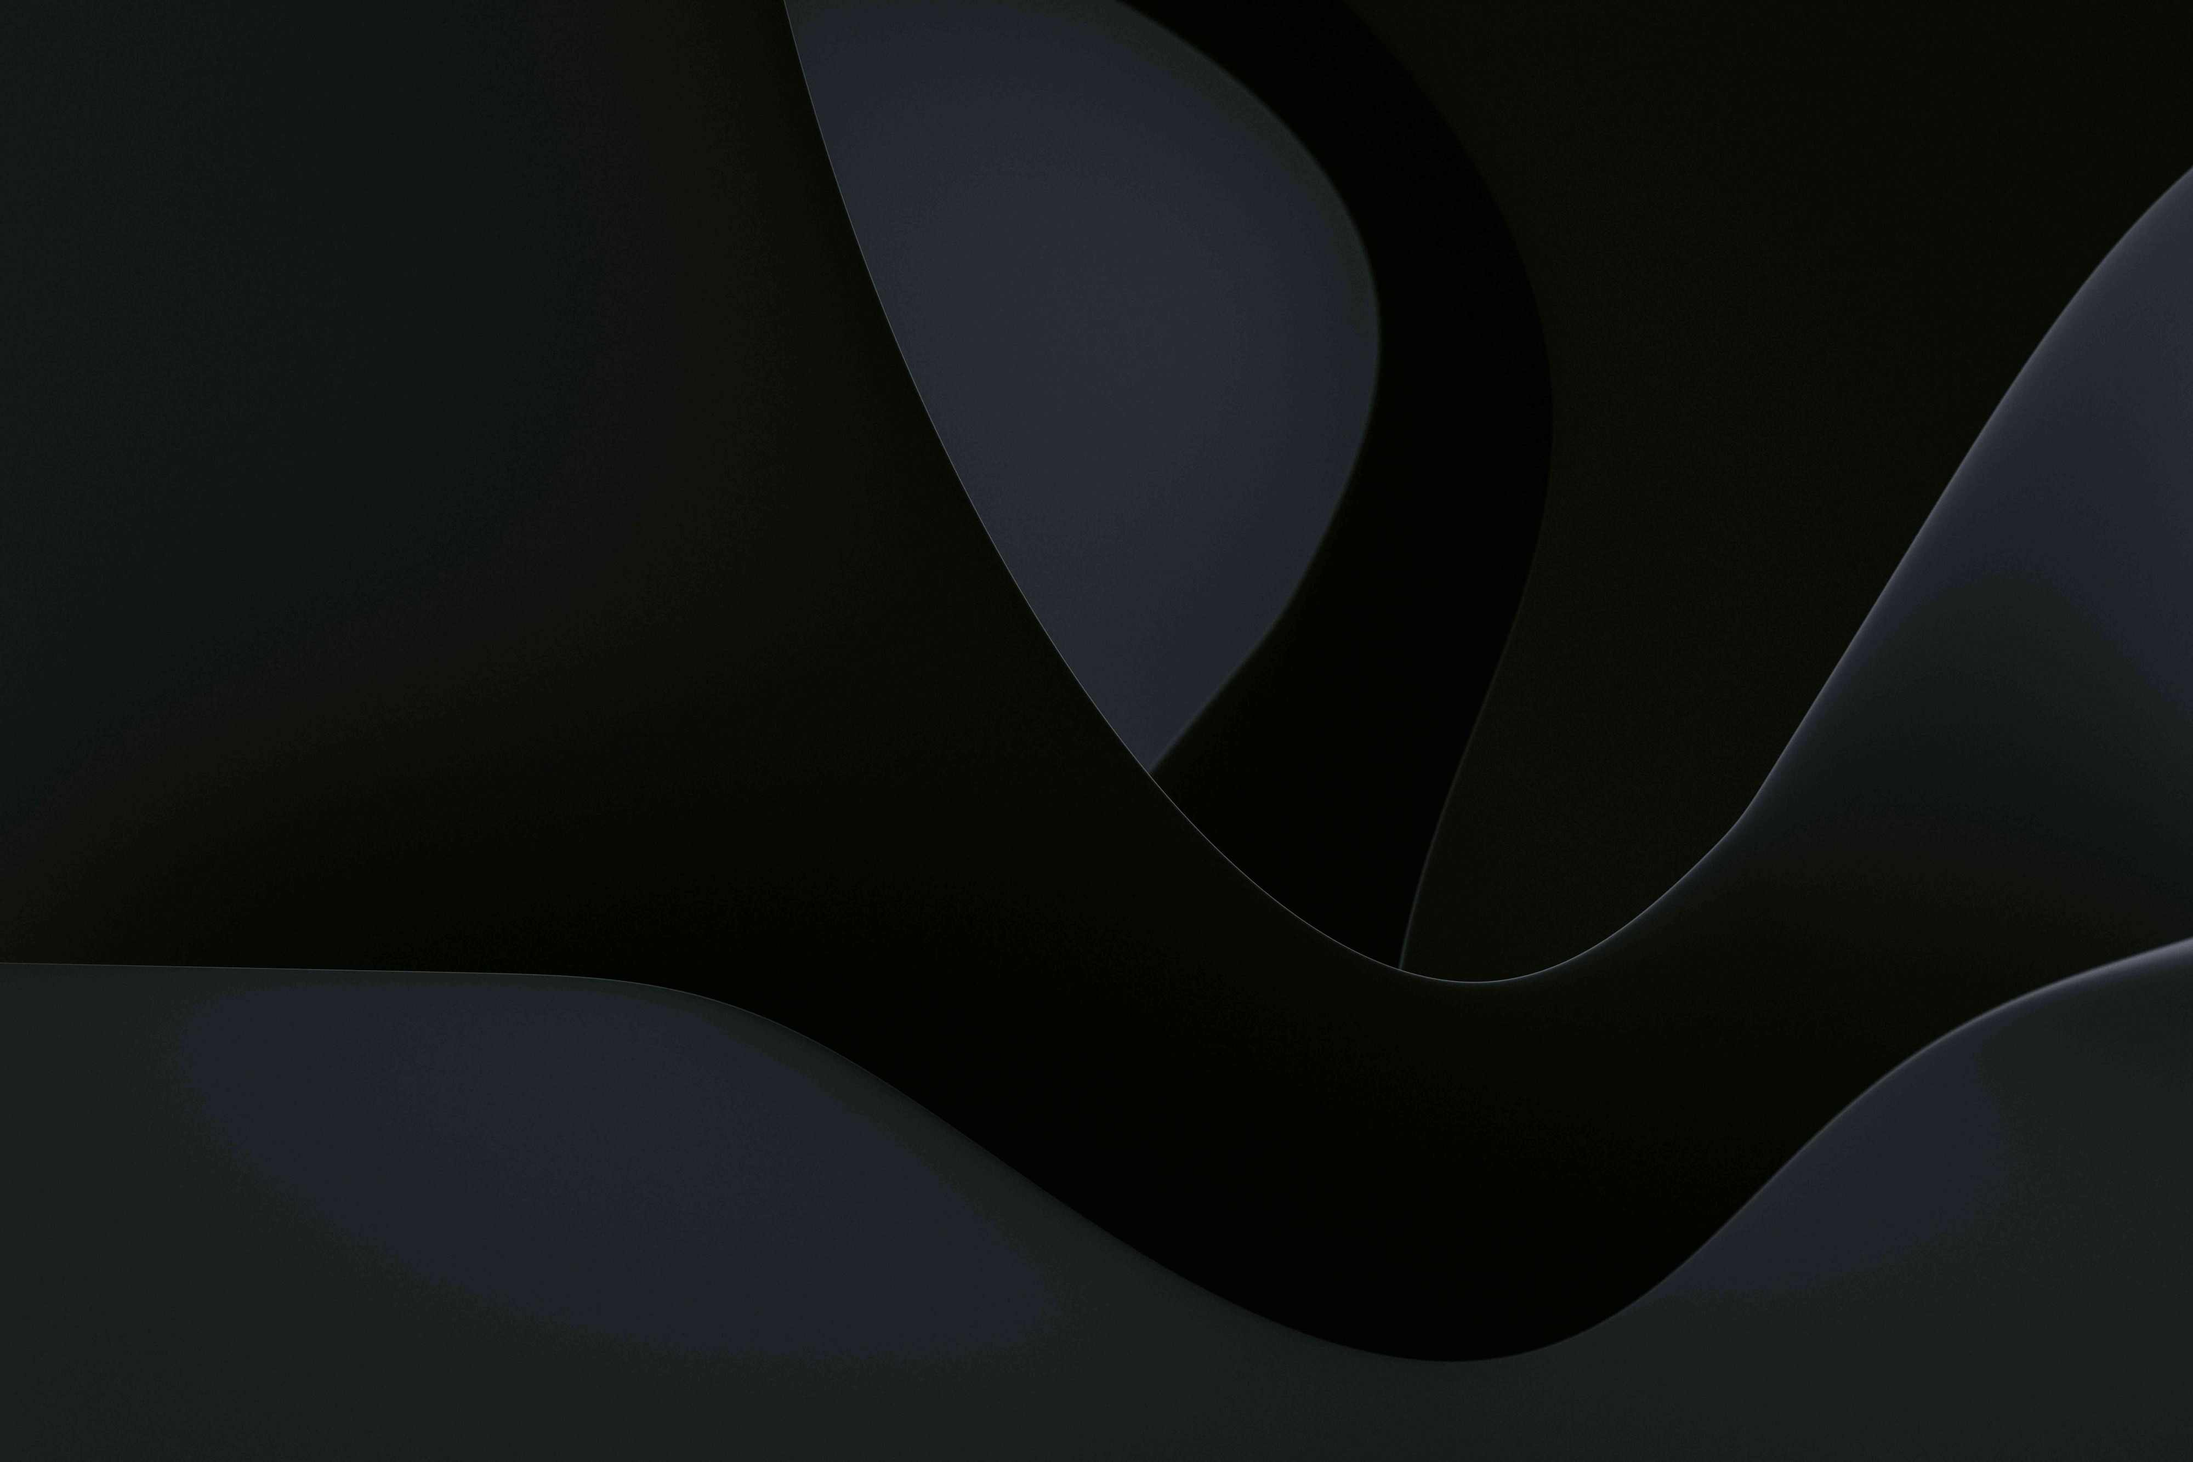
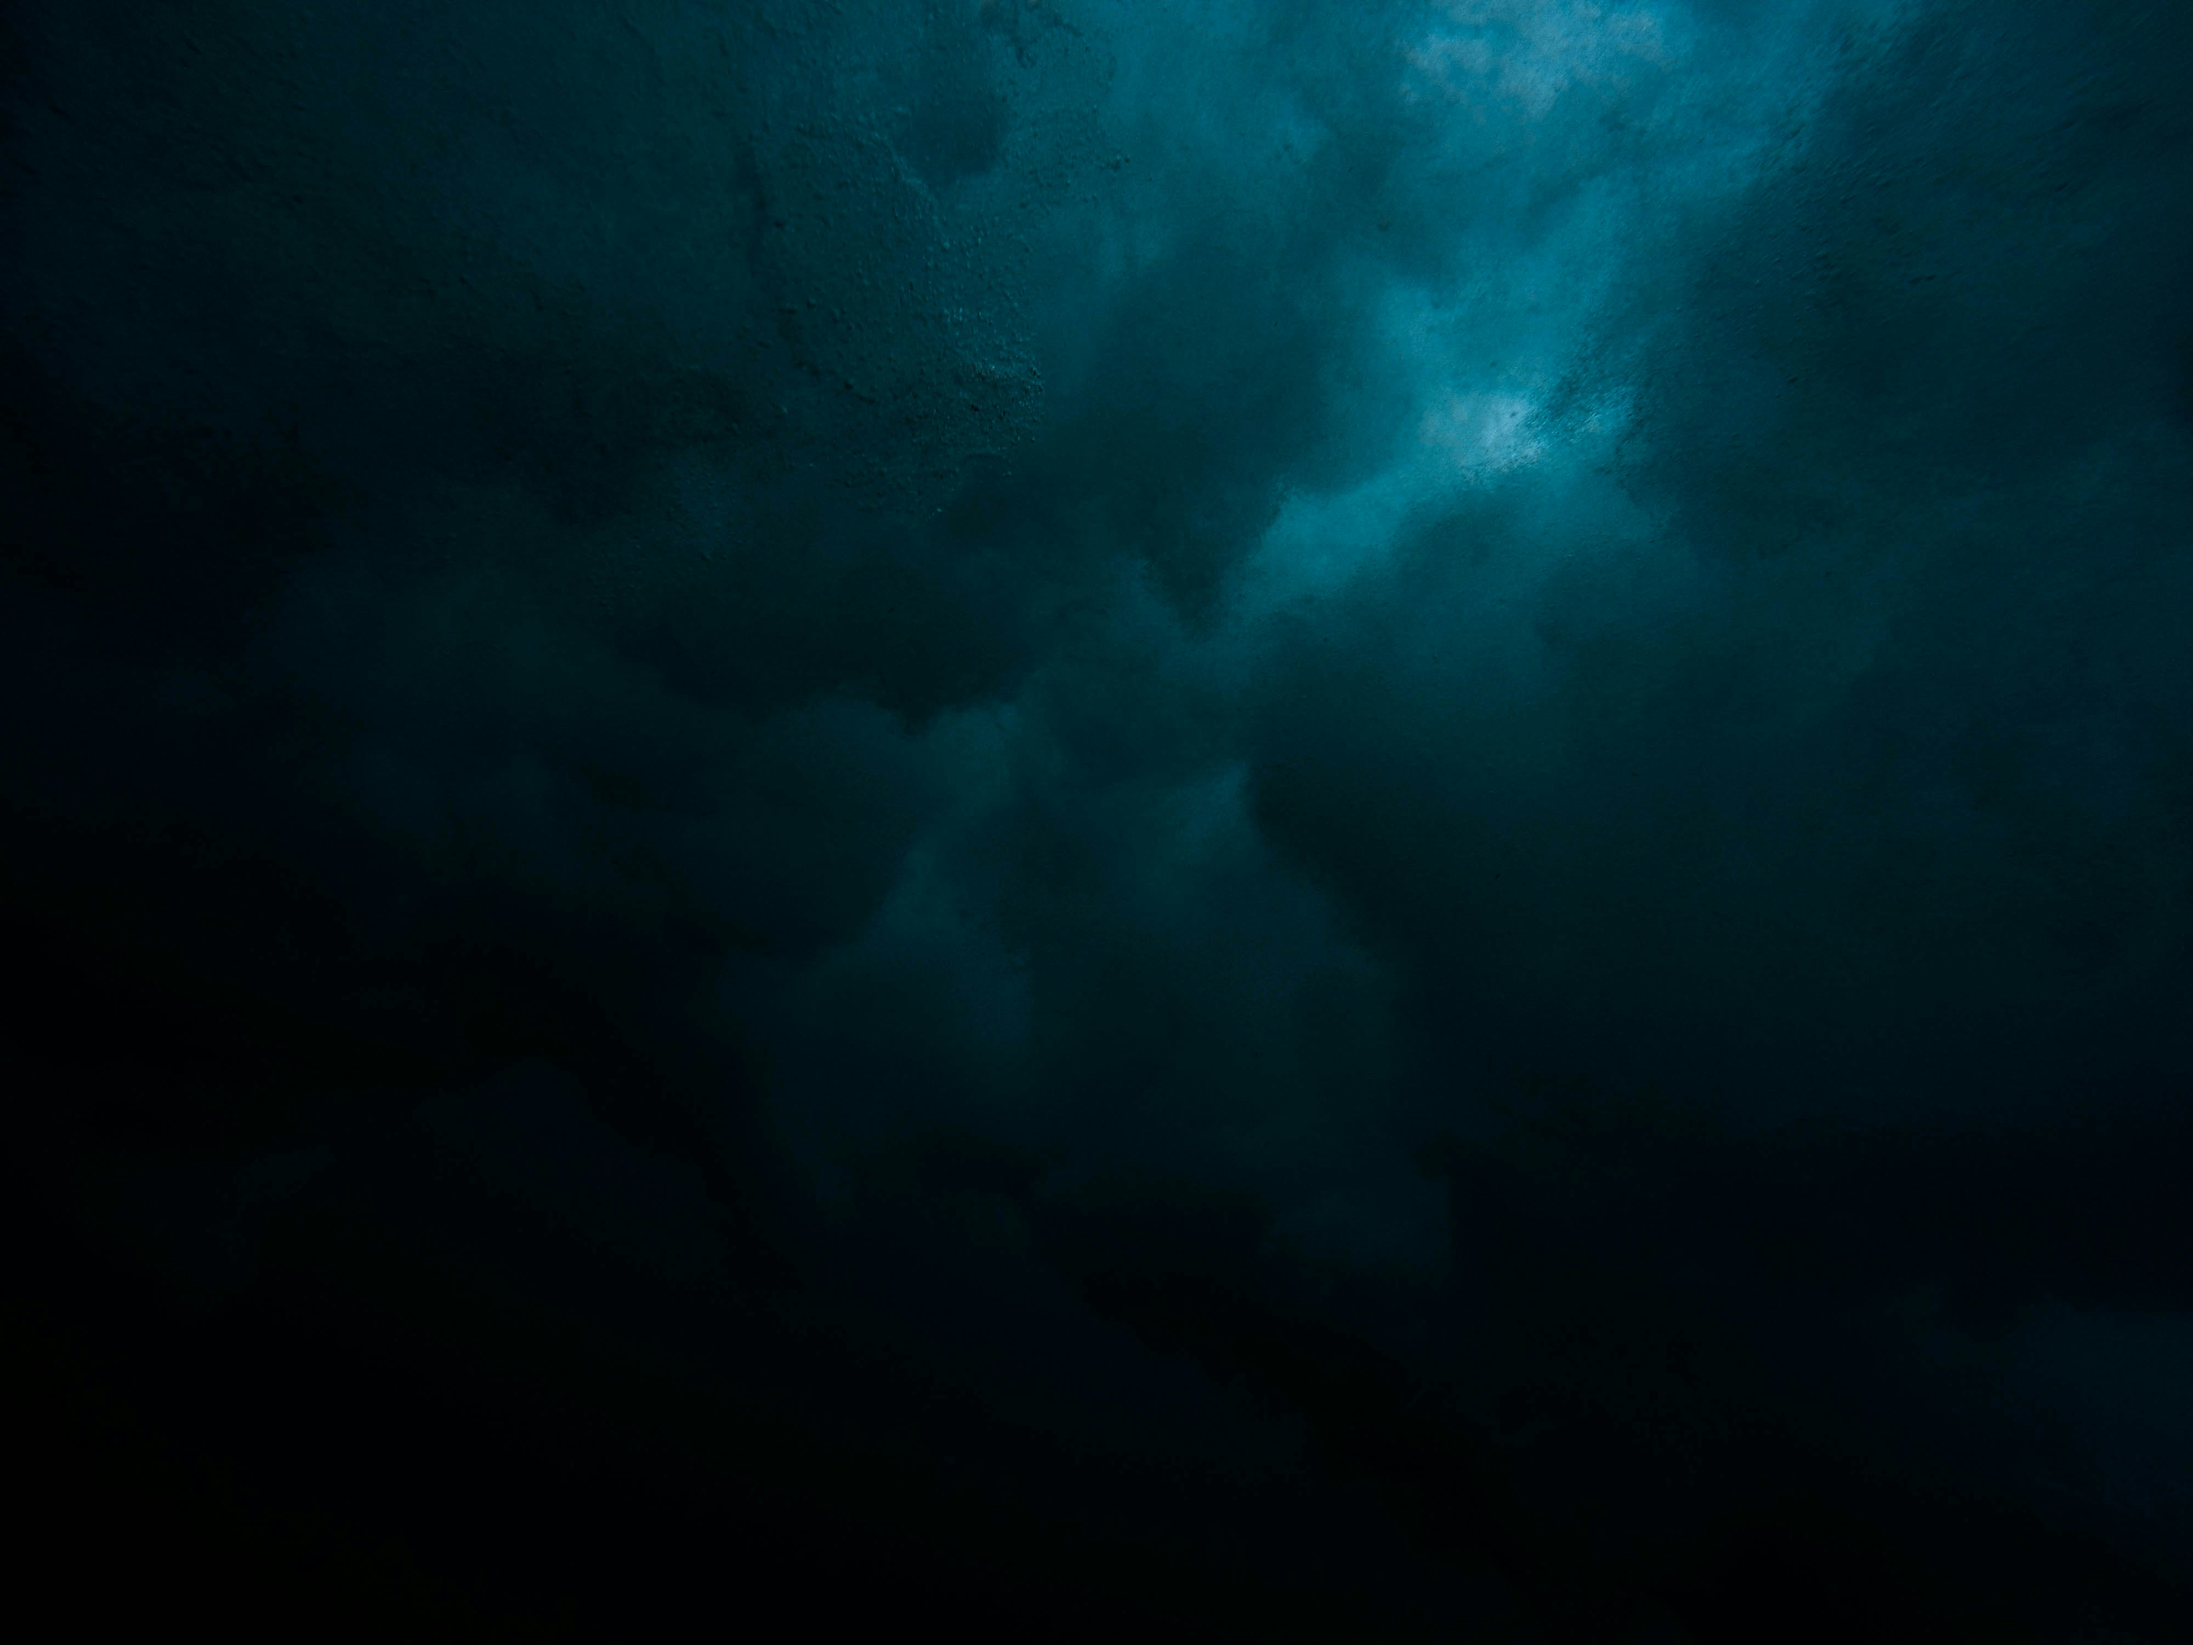
Overhauled element style

diff --git a/src/styles/about.css b/src/styles/about.css
@@ -1,0 +1,130 @@
+@property --start {
+  syntax: '<color>';
+  inherits: false;
+  initial-value: transparent;
+}
+
+@property --pos {
+  syntax: '<percentage>';
+  inherits: false;
+  initial-value: 10%;
+}
+
+
+.about-head {
+    position: relative;
+}
+
+
+.about-border {
+    width: 100%;
+    height: 40px;
+    border-top-left-radius: 8px;
+    border-top-right-radius: 8px;
+    background-color: #9c635897;
+}
+
+
+.about-container{
+  display: grid;
+  justify-content: center;
+  align-items: center;
+  gap: 70px;
+  background: linear-gradient(36deg, #1f1f2343 80%, #c77d7042 20%),
+  linear-gradient(to left, #201e2d3a 0%, #ea535838 100%);
+  backdrop-filter: blur(30px);
+  border-bottom-left-radius: 8px;
+  border-bottom-right-radius: 8px;
+  grid-template-columns: 2fr 1fr; /* ratio 2:1 */
+  transition: transform 0.3s ease;
+  margin-bottom: 5%;
+  box-shadow: 0 4px 8px rgba(0, 0, 0, 0.1);
+}
+
+
+
+/* Cutoff point when the about head turns into a collumn*/
+@media (max-width: 1100px) {
+  .about-container {
+    grid-template-columns: 1fr;
+    gap: 0px;
+  }
+  .right-section {
+    width: 0%;
+    height: 0%;
+    padding: 0%;
+    display: none;
+  }
+  
+  .right-section div {
+    display: none;
+  }
+}
+
+
+.right-section {
+    width: 100%;
+    height: 100%;
+    padding-top: 10%;
+    padding-bottom: 10%;
+    display: flex;
+    align-items: center;
+}
+
+.right-section div {
+    background-color: #28282d;
+    background-size: cover;
+    background-position-x: -150px;
+    box-shadow: 0 4px 8px rgba(0, 0, 0, 0.1);
+    border-radius: 8px;
+    width: 70%;
+    height: 70%;
+    max-height: 800px;
+    overflow: hidden;
+}
+
+.contact-list{
+  list-style: none;
+  display: flex;
+  justify-content: left;
+  align-items: left;
+  padding: 0;
+  height: 64px;
+}
+
+.contact-list a{
+  display: flex;
+  justify-content: center;
+  align-items: center;
+  width: 64px;
+  height: 64px;
+  margin-right: 10px;
+}
+.contact-list a img{
+  transition: transform 0.2s;
+  width: auto;
+  height: 100%;
+}
+
+.contact-list a img:hover{
+  transform: scale(1.2);
+  transition: transform 0.2s;
+  cursor: pointer;
+}
+
+.left-section {
+    background: transparent;
+    transition: --start 0.3s ease, --pos 0.3s ease;
+    border-bottom-left-radius: 8px;
+    --start: transparent;
+    --pos: 0%;
+    background: linear-gradient(90deg, var(--start) var(--pos), transparent 20%);
+    padding: 30px 30px 30px 30px;
+}
+
+.left-section:hover {
+    --start: #c77d7017;
+    --pos: 30%;
+}
+
+

diff --git a/src/index.css b/src/index.css
@@ -1,19 +1,18 @@
 @import './styles/font.css';
 @import './styles/navbar.css';
 @import './styles/bloglist.css';
+@import './styles/about.css';
 
-body {
-  margin: 0;
-}
 
 code {
   font-family: 'Monaspace Argon', monospace;
 }
 
 body{
-  background-color: #1f1f23;
+  margin: 0;
+  background: linear-gradient(216deg, #1f1f23 10%, #1f1f23 50%);
   background-size: cover;
-  color: #d4d3c3;
+  color: #f3f3f3;
   display: flex;
   justify-content: center;
 }
@@ -57,89 +56,8 @@ p{
   text-decoration: underline;
 }
 
-
-.about-container{
-  display: grid;
-  justify-content: center;
-  align-items: center;
-  gap: 70px;
-  padding: 0px 40px 40px 40px;
-  background-color: #252529;
-  border-radius: 32px;
-  grid-template-columns: 2fr 1fr; /* ratio 2:1 */
-  transition: transform 0.3s ease;
-  margin-bottom: 5%;
-}
-/* Cutoff point when the about head turns into a collumn*/
-@media (max-width: 1100px) {
-  .about-container {
-    grid-template-columns: 1fr;
-  }
-  .about-container img {
-    display: none;
-  }
-}
-.about-container img{
-  min-width: 300px;
-  justify-self: center;
-  max-width: 100%;
-  height: auto;
-  transition: transform 0.3s ease;
-}
-
-.about-container img:hover{
-  transform: scale(1.05);
-  transition: transform 0.3s ease;
-}
-
-.contact-list{
-  list-style: none;
-  display: flex;
-  justify-content: left;
-  align-items: left;
-  padding: 0;
-  height: 64px;
-}
-
-.contact-list a{
-  display: flex;
-  justify-content: center;
-  align-items: center;
-  width: 64px;
-  height: 64px;
-  margin-right: 10px;
-}
-.contact-list a img{
-  transition: transform 0.2s;
-  width: auto;
-  height: 100%;
-}
-
-.contact-list a img:hover{
-  transform: scale(1.2);
-  transition: transform 0.2s;
-  cursor: pointer;
-}
-
-.left-section {
-  padding: 2.5%;
-  border-radius: 8px;
-  transition: transform 0.3s ease;
-}
-
-.left-section:hover{
-  transform: scale(1.02);
-  transition: transform 0.4s ease;
-}
-
-
-
-
-
-
-
 .red {color:#ff5757;}
-.yellow {color: #e5c9a6;}
+.yellow {color: #e8c088;}
 .grey {color: #3d3d49;}
 .blue {color: #1f1f23;}
-.white {color: #d4d3c3;}
+.white {color: #f3f3f3;}

diff --git a/src/components/AboutHead.jsx b/src/components/AboutHead.jsx
@@ -1,13 +1,16 @@
 import React from 'react';
 import ContactList from './ContactList';
 
+
 const AboutHead = () => (
+    <div className='about-head'>
+    <div className='about-border'/>
     <div className='about-container'>
-        <div>
         <div className='left-section'>
         <section>
-            <h3 className="text-heading red">
-                Hello World! My name is Nawwaf Sudi, 
+            <h3 className="text-heading">
+                <span className='red'>Hi! I'm </span> 
+                <span className='yellow'>Nawwaf Sudi</span> 
             </h3>
             <h3 className="text-subheading white">
                 an Undergraduate student 
@@ -29,11 +32,11 @@ const AboutHead = () => (
                 I'm always eager to connect, so feel free to <a className="hyper-link red" href='https://github.com/Vex-I'>reach out</a>!
             </p>
         </section>
-        
         </div>
-        <ContactList />
+        <div className='right-section'>
+            <div style={{backgroundImage: "url('/profile-pic.jpg')"}}></div>
         </div>
-        <img viewbox= "0 0 100 100" src="/githublogo.svg" />
+    </div>
     </div>
 );
 

diff --git a/src/styles/bloglist.css b/src/styles/bloglist.css
@@ -13,11 +13,17 @@
     all: unset;
     cursor: pointer;
     padding: 0;
-    transition: transform 0.2s;
+    transition: --start 0.3s ease, --pos 0.3s ease;
+    --start: transparent;
+    --pos: 0%;
+    background: linear-gradient(90deg, var(--start) var(--pos), transparent 20%),
+                linear-gradient(to left, #201e2d3a 0%, #ea535838 100%);
+    border-radius: 16px;
+    
 }
 .card-button:hover{
-    transition: transform 0.2s;
-    transform: scale(1.02);
+    --start: #c77d7017;
+    --pos: 30%;
 }
 
 .blog-grid{
@@ -40,7 +46,7 @@
 .blog-card{
     width: 100%;
     height: 100%;
-    background-color: #252529;
+    backdrop-filter: blur(30px);
     border-radius: 16px;
     box-shadow: 0 4px 8px rgba(0, 0, 0, 0.1);
     overflow: hidden;
@@ -81,7 +87,8 @@
 }
 
 .blog-container section{
-    background-color: #252529;
+    background-color: #25252973;
+    backdrop-filter: blur(30px);
     box-shadow: #e5c9a6 0px 0px 1px;
     max-width: 800px;
     padding : 5%;

diff --git a/src/pages/About.jsx b/src/pages/About.jsx
@@ -6,10 +6,9 @@ const About = () => (
     <div style={{display: 'flex', flexDirection: 'column', gap: '20px', paddingBottom: '50px', alignItems: 'center'}}>
         <AboutHead />
 
-        <h1>
-            <span>{"> "}</span>  
+        <h1 style={{width: '100%', textAlign: 'left'}}>
             <span className="yellow">{"Recent Post"}</span>
-            <span className="red">{"."}</span>
+            <span className="white">{"."}</span>
         </h1>
         
         <BlogList style={{}} count={3}/>

diff --git a/src/styles/navbar.css b/src/styles/navbar.css
@@ -5,7 +5,7 @@ TODO: Add some animations for toggling the menu. Ease-in-out should do it.
 /* Navbar.css */
 .navbar {
   justify-items: center;
-  padding: 20px;
+  padding: 0;
   margin-bottom: 2.5%;
   background-color: transparent;
   backdrop-filter: blur(10px);

diff --git a/src/App.js b/src/App.js
@@ -10,7 +10,7 @@ function App() {
   return (
   <Router>
     <NavBar />
-    <div style={{width: '95%'}}>
+    <div className="main-content">
       <Routes>
         <Route path="/" element={<About />} />
         <Route path="/blog" element={<BlogView/>}/>

diff --git a/src/App.css b/src/App.css
@@ -36,3 +36,16 @@
     transform: rotate(360deg);
   }
 }
+
+
+
+
+.main-content {
+  display: flex;
+  justify-content: center;
+  align-items: center;
+  flex-direction: column;
+  margin-top: 20px;
+  max-width: 1000px;
+  min-width: 500px;
+}

diff --git a/src/pages/BlogView.jsx b/src/pages/BlogView.jsx
@@ -2,7 +2,9 @@ import React from "react";
 import BlogList from '../components/BlogList';
 //Page for the blog list view.
 const BlogView = () => (
+    <div style={{width: "100%"}}>
     <BlogList />
+    </div>
 );
 
 export default BlogView;

diff --git a/src/components/AboutImage.jsx b/src/components/AboutImage.jsx
@@ -1,0 +1,9 @@
+import React from "react";
+
+const AboutImage = () => {
+    <div className="about-image">
+        
+    </div>
+}
+
+export default AboutImage;
